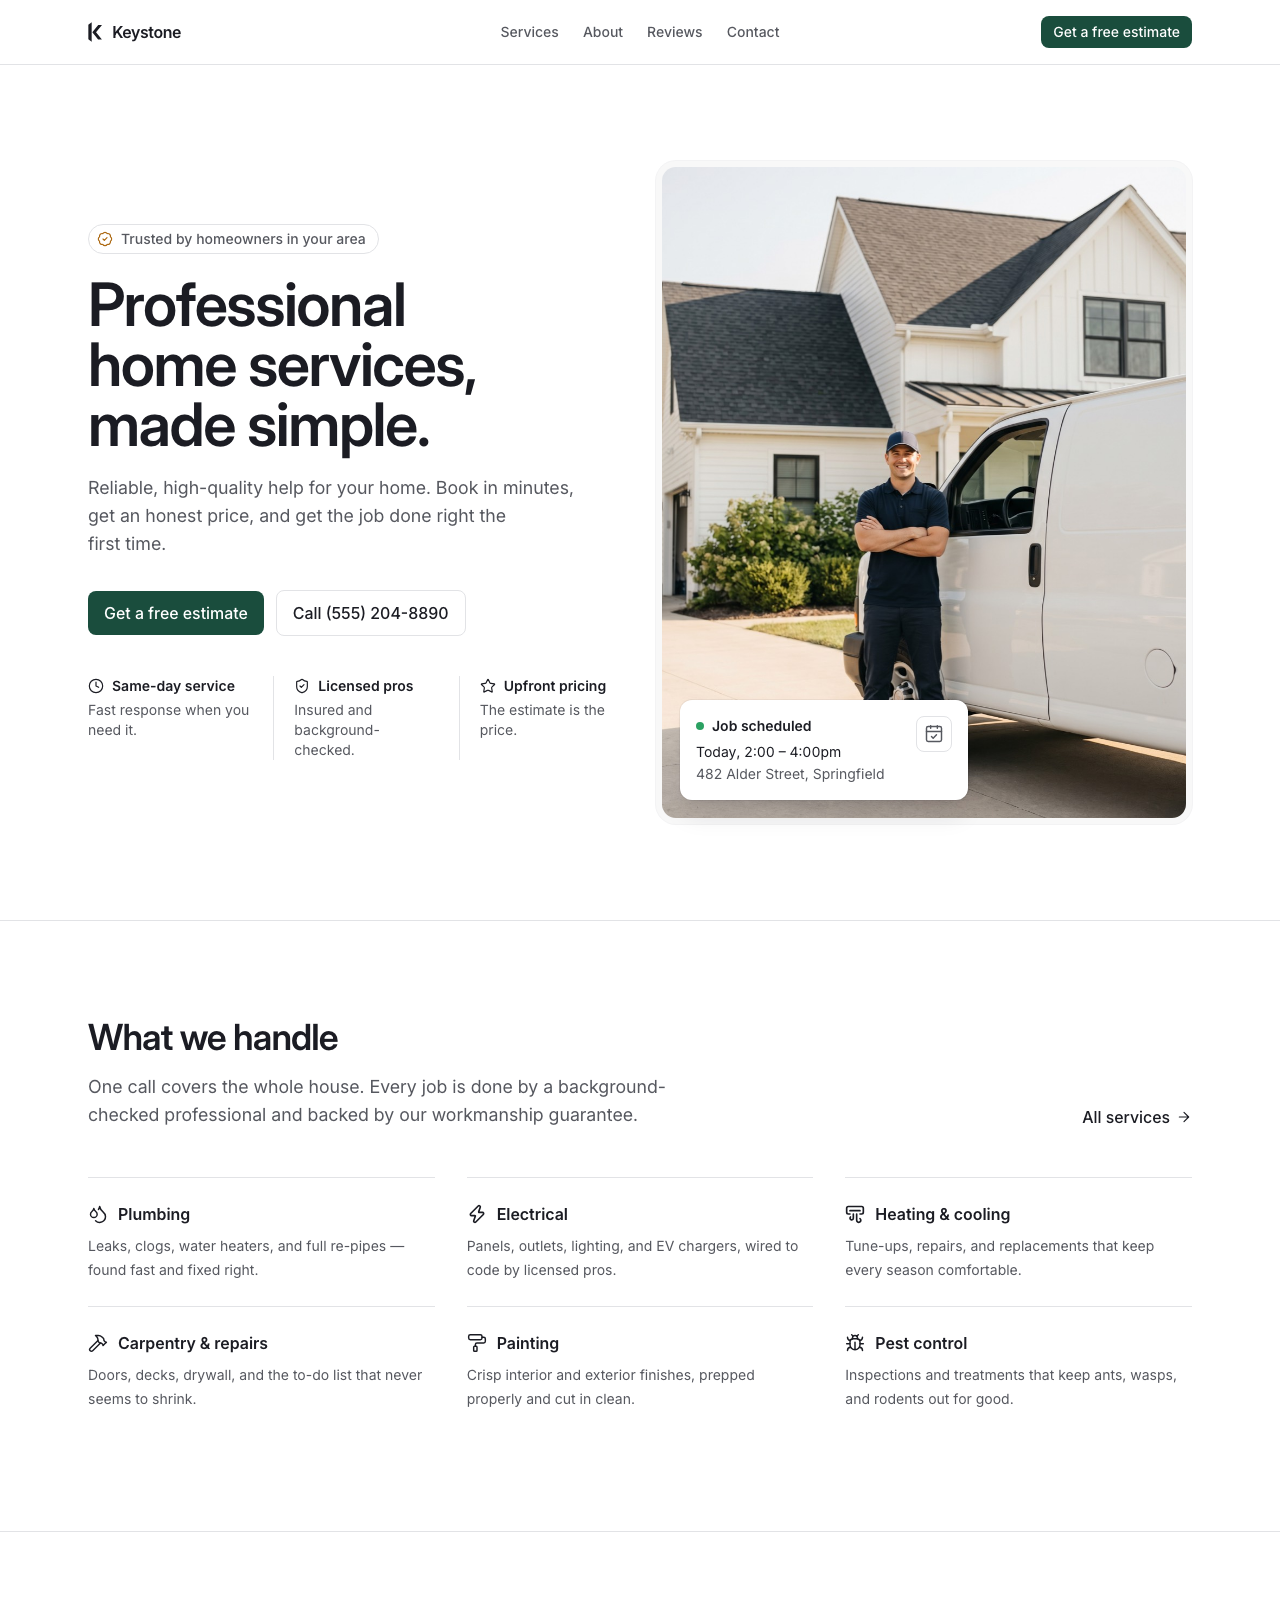
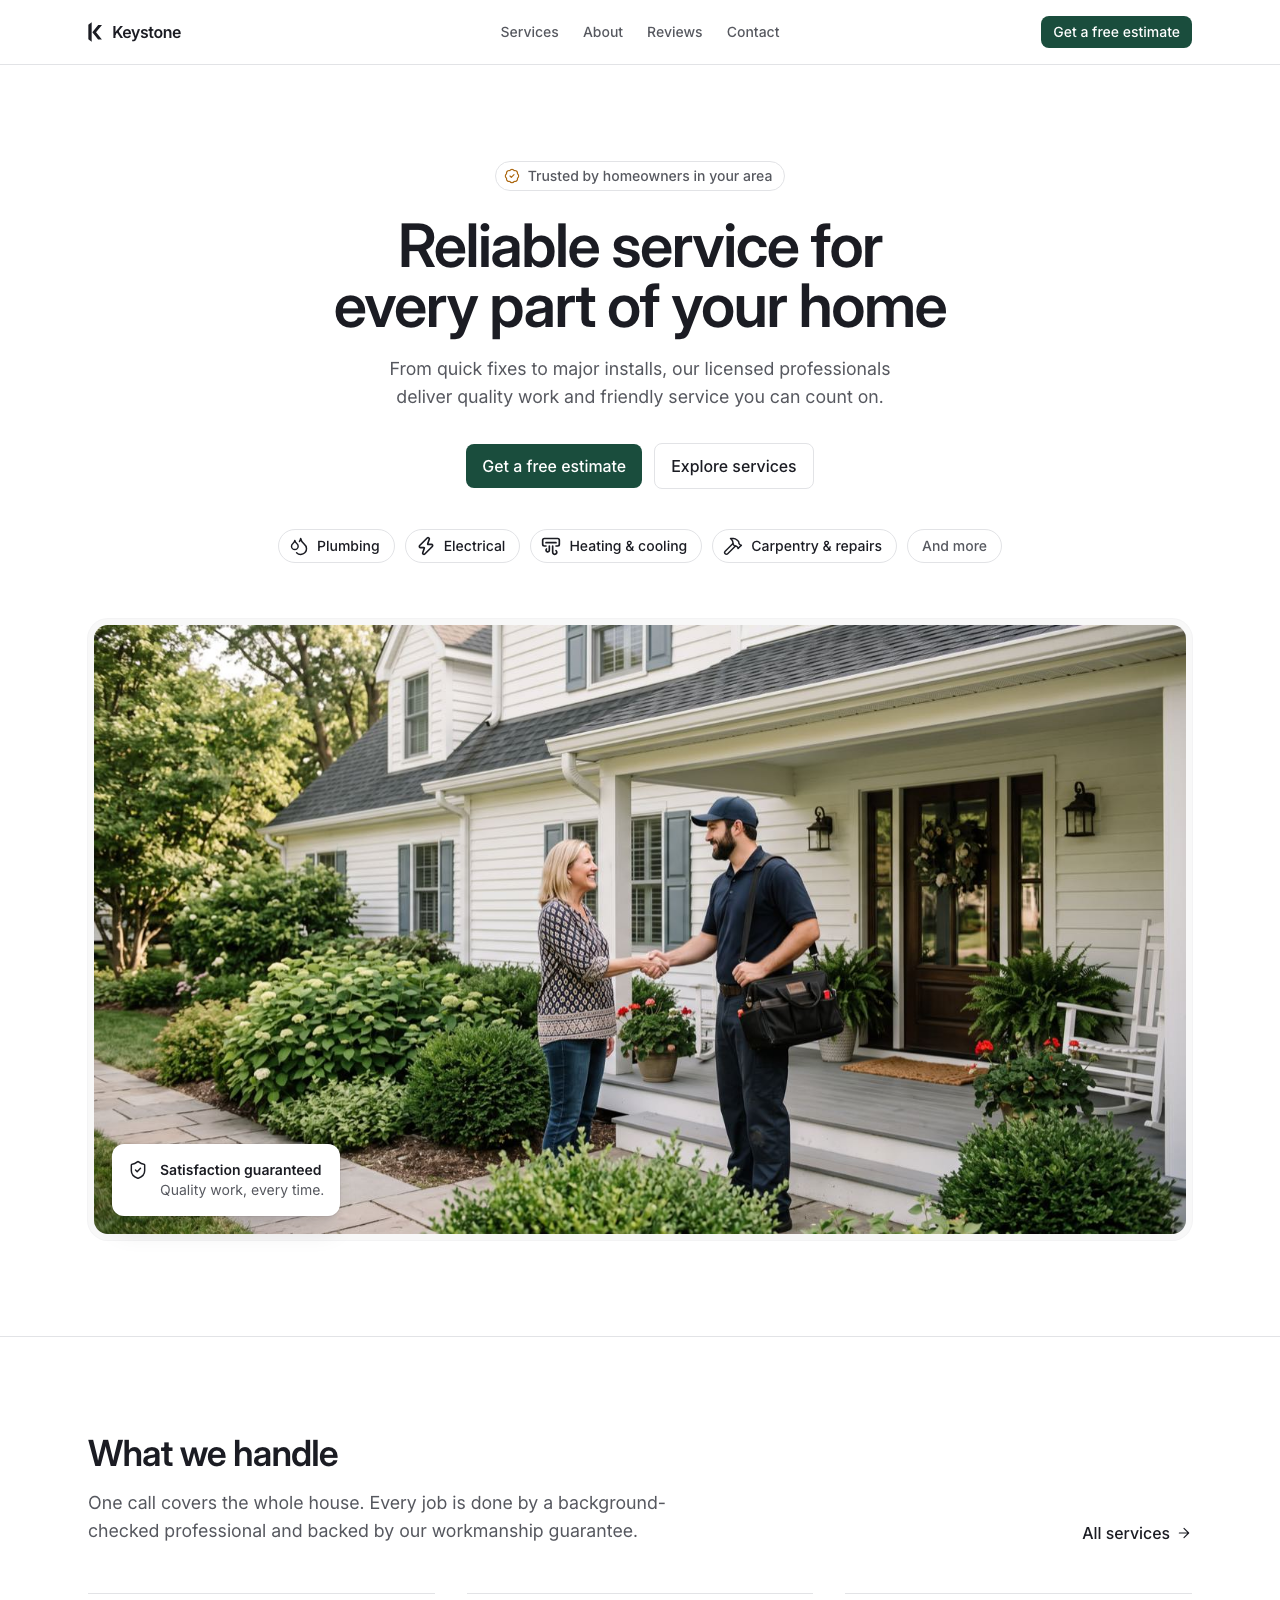
Adding more updates

diff --git a/files/resources/css/site.css b/files/resources/css/site.css
@@ -35,10 +35,48 @@ html.reveal-ready [data-reveal].is-visible {
     transform: translateY(0);
 }
 
+/* First-viewport choreography for the full-frame hero: the photo settles
+   from a slight zoom while the copy, card, and caption rise in sequence
+   (--i is each element's slot). Time-based, so no script is involved. */
+@keyframes hero-in {
+    from {
+        opacity: 0;
+        transform: translateY(18px);
+    }
+    to {
+        opacity: 1;
+        transform: translateY(0);
+    }
+}
+
+@keyframes hero-frame-settle {
+    from {
+        transform: scale(1.045);
+    }
+    to {
+        transform: scale(1);
+    }
+}
+
+[data-hero-in] {
+    animation: hero-in 900ms cubic-bezier(0.22, 1, 0.36, 1) both;
+    animation-delay: calc(140ms + var(--i, 0) * 90ms);
+}
+
+[data-hero-frame] {
+    transform-origin: 62% 50%;
+    animation: hero-frame-settle 2200ms cubic-bezier(0.22, 1, 0.36, 1) both;
+}
+
 @media (prefers-reduced-motion: reduce) {
     html.reveal-ready [data-reveal] {
         opacity: 1;
         transform: none;
         transition: none;
+    }
+
+    [data-hero-in],
+    [data-hero-frame] {
+        animation: none;
     }
 }

diff --git a/files/resources/views/components/sections/hero-frame.blade.php b/files/resources/views/components/sections/hero-frame.blade.php
@@ -1,30 +1,54 @@
 @props(['heading' => 'The house is handled.'])
-<section class="px-6 pt-6 pb-16 lg:pb-24">
+{{-- Full-frame look: the photo is the page. Copy sits on a scrim bottom-left,
+     the dispatch card holds the opposite corner on the same baseline, and a
+     caption plate under the print carries the proof points. --}}
+<section class="px-4 pt-4 pb-16 sm:px-6 sm:pt-6 lg:pb-24">
     <div class="mx-auto max-w-6xl">
-        <div class="relative rounded-[1.5rem] bg-ink/3 p-1.5 ring-1 ring-ink/5">
-            <img src="/images/hero-overlook.jpg" alt="A well-kept suburban home at golden hour" width="1728" height="964" fetchpriority="high" class="h-105 w-full rounded-[calc(1.5rem-6px)] object-cover lg:h-140">
-            <div class="pointer-events-none absolute inset-1.5 rounded-[calc(1.5rem-6px)] bg-linear-to-r from-ink/30 to-ink/0 max-lg:hidden" aria-hidden="true"></div>
-            <div class="relative -mt-16 mr-1.5 mb-1.5 ml-1.5 max-w-xl rounded-2xl bg-canvas p-6 shadow-xl shadow-ink/10 ring-1 ring-ink/5 sm:p-8 lg:absolute lg:bottom-8 lg:left-8 lg:m-0">
-                <p class="inline-flex items-center gap-2 rounded-full border border-line py-1 pr-3 pl-2 text-sm font-medium text-muted">
-                    <svg xmlns="http://www.w3.org/2000/svg" viewBox="0 0 24 24" fill="none" stroke="currentColor" stroke-width="1.75" stroke-linecap="round" stroke-linejoin="round" class="size-4 shrink-0 text-secondary" aria-hidden="true"><path d="M3.85 8.62a4 4 0 0 1 4.78-4.77a4 4 0 0 1 6.74 0a4 4 0 0 1 4.78 4.78a4 4 0 0 1 0 6.74a4 4 0 0 1-4.77 4.78a4 4 0 0 1-6.75 0a4 4 0 0 1-4.78-4.77a4 4 0 0 1 0-6.76"/><path d="m9 12l2 2l4-4"/></svg>
-                    Trusted by homeowners in your area
-                </p>
-                <h1 class="mt-4 max-w-[16ch] font-display text-3xl font-semibold tracking-tight text-balance text-ink sm:text-4xl lg:text-5xl">{{ $heading }}</h1>
-                <p class="mt-4 max-w-[42ch] text-lg text-pretty text-muted">One licensed local crew for every repair, install, and tune-up — booked in minutes, priced before we start.</p>
-                <div class="mt-6 flex flex-wrap items-center gap-3">
-                    <a href="/contact" class="rounded-lg bg-accent px-4 py-2.5 font-medium text-accent-ink transition-transform duration-200 ease-[cubic-bezier(0.22,1,0.36,1)] active:scale-[0.98] hover:bg-accent/85 focus-visible:outline-2 focus-visible:outline-offset-2 focus-visible:outline-accent">{{ $site->cta_label }}</a>
-                    <a href="{{ $site->phone_href }}" class="rounded-lg border border-line px-4 py-2.5 font-medium text-ink hover:border-ink/30 focus-visible:outline-2 focus-visible:outline-offset-2 focus-visible:outline-accent">Call {{ $site->phone }}</a>
+        <div class="rounded-[1.75rem] bg-ink/4 p-1.5 ring-1 ring-ink/6">
+            <div class="relative isolate overflow-hidden rounded-[calc(1.75rem-6px)] bg-ink">
+                <img src="/images/hero-overlook.jpg" alt="A modern farmhouse at dusk, porch light on" width="1728" height="964" fetchpriority="high" data-hero-frame class="h-[34rem] w-full object-cover object-[62%_50%] sm:h-[38rem] lg:h-[46rem]">
+                <div class="pointer-events-none absolute inset-0 bg-linear-to-t from-ink/85 via-ink/35 via-45% to-ink/0" aria-hidden="true"></div>
+                <div class="pointer-events-none absolute inset-0 bg-linear-to-r from-ink/45 to-ink/0 to-60% max-lg:hidden" aria-hidden="true"></div>
+
+                <div class="absolute inset-x-0 bottom-0 flex flex-col gap-8 p-5 sm:p-8 lg:flex-row lg:items-end lg:justify-between lg:p-10">
+                    <div class="max-w-2xl">
+                        <p data-hero-in style="--i: 0" class="inline-flex items-center gap-2 rounded-full bg-canvas/12 py-1 pr-3 pl-2 text-sm font-medium text-canvas ring-1 ring-canvas/25 backdrop-blur-md max-sm:text-xs">
+                            <svg xmlns="http://www.w3.org/2000/svg" viewBox="0 0 24 24" fill="none" stroke="currentColor" stroke-width="1.75" stroke-linecap="round" stroke-linejoin="round" class="size-4 shrink-0 text-secondary" aria-hidden="true"><path d="M3.85 8.62a4 4 0 0 1 4.78-4.77a4 4 0 0 1 6.74 0a4 4 0 0 1 4.78 4.78a4 4 0 0 1 0 6.74a4 4 0 0 1-4.77 4.78a4 4 0 0 1-6.75 0a4 4 0 0 1-4.78-4.77a4 4 0 0 1 0-6.76"/><path d="m9 12l2 2l4-4"/></svg>
+                            Trusted by homeowners in your area
+                        </p>
+                        <h1 data-hero-in style="--i: 1" class="mt-5 max-w-[13ch] font-display text-4xl font-semibold tracking-tight text-balance text-canvas sm:text-5xl lg:text-6xl xl:text-7xl">{{ $heading }}</h1>
+                        <p data-hero-in style="--i: 2" class="mt-5 max-w-[40ch] text-lg text-pretty text-canvas/80 lg:text-xl">One licensed local crew for every repair, install, and tune-up — booked in minutes, priced before we start.</p>
+                        <div data-hero-in style="--i: 3" class="mt-8 flex flex-wrap items-center gap-3 max-sm:flex-col max-sm:items-stretch">
+                            <a href="/contact" class="rounded-lg bg-canvas px-4 py-2.5 text-center font-medium text-ink transition-transform duration-200 ease-[cubic-bezier(0.22,1,0.36,1)] active:scale-[0.98] hover:bg-canvas/90 focus-visible:outline-2 focus-visible:outline-offset-2 focus-visible:outline-canvas">{{ $site->cta_label }}</a>
+                            <a href="{{ $site->phone_href }}" class="rounded-lg bg-canvas/12 px-4 py-2.5 text-center font-medium text-canvas ring-1 ring-canvas/30 backdrop-blur-md hover:bg-canvas/20 focus-visible:outline-2 focus-visible:outline-offset-2 focus-visible:outline-canvas">Call {{ $site->phone }}</a>
+                        </div>
+                    </div>
+                    <div data-hero-in style="--i: 4" class="shrink-0 max-lg:hidden">
+                        <x-sections.dispatch-card/>
+                    </div>
                 </div>
-                <p class="mt-6 flex flex-wrap items-center gap-x-2 gap-y-1 border-t border-line pt-4 text-sm text-muted">
-                    <span>Same-day service</span>
-                    <span aria-hidden="true">·</span>
-                    <span>Licensed &amp; insured</span>
-                    <span aria-hidden="true">·</span>
-                    <span>Upfront pricing</span>
-                </p>
             </div>
-            <div class="absolute top-8 right-8 max-lg:hidden">
-                <x-sections.dispatch-card/>
+
+            {{-- Caption plate: the print's label, set in the mat. --}}
+            <div data-hero-in style="--i: 5" class="flex flex-wrap items-center justify-between gap-x-8 gap-y-3 px-3 pt-3.5 pb-2 max-sm:flex-col max-sm:items-start sm:px-5">
+                <p class="flex items-center gap-2.5 text-sm whitespace-nowrap text-muted">
+                    <x-sections.stars/>
+                    <span><span class="font-semibold text-ink">Five stars</span> from 300+ homeowners</span>
+                </p>
+                <ul class="flex flex-wrap items-center gap-x-5 gap-y-2 text-sm text-muted" aria-label="Why homeowners choose us">
+                    <li class="flex items-center gap-2">
+                        <svg xmlns="http://www.w3.org/2000/svg" viewBox="0 0 24 24" fill="none" stroke="currentColor" stroke-width="1.75" stroke-linecap="round" stroke-linejoin="round" class="size-4 shrink-0 text-ink" aria-hidden="true"><circle cx="12" cy="12" r="10"/><path d="M12 6v6l4 2"/></svg>
+                        Same-day service
+                    </li>
+                    <li class="flex items-center gap-2 sm:border-l sm:border-line sm:pl-5">
+                        <svg xmlns="http://www.w3.org/2000/svg" viewBox="0 0 24 24" fill="none" stroke="currentColor" stroke-width="1.75" stroke-linecap="round" stroke-linejoin="round" class="size-4 shrink-0 text-ink" aria-hidden="true"><path d="M20 13c0 5-3.5 7.5-7.66 8.95a1 1 0 0 1-.67-.01C7.5 20.5 4 18 4 13V6a1 1 0 0 1 1-1c2 0 4.5-1.2 6.24-2.72a1.17 1.17 0 0 1 1.52 0C14.51 3.81 17 5 19 5a1 1 0 0 1 1 1z"/><path d="m9 12l2 2l4-4"/></svg>
+                        Licensed &amp; insured
+                    </li>
+                    <li class="flex items-center gap-2 sm:border-l sm:border-line sm:pl-5">
+                        <svg xmlns="http://www.w3.org/2000/svg" viewBox="0 0 24 24" fill="none" stroke="currentColor" stroke-width="1.75" stroke-linecap="round" stroke-linejoin="round" class="size-4 shrink-0 text-ink" aria-hidden="true"><path d="M4 2v20l2-1 2 1 2-1 2 1 2-1 2 1 2-1 2 1V2l-2 1-2-1-2 1-2-1-2 1-2-1-2 1Z"/><path d="M16 8h-6a2 2 0 1 0 0 4h4a2 2 0 1 1 0 4H8"/><path d="M12 17.5v-11"/></svg>
+                        Upfront pricing
+                    </li>
+                </ul>
             </div>
         </div>
     </div>

diff --git a/files/resources/views/components/sections/nav.blade.php b/files/resources/views/components/sections/nav.blade.php
@@ -1,5 +1,5 @@
 <header class="sticky top-0 z-40 border-b border-line bg-canvas/85 backdrop-blur-md">
-    <nav aria-label="Main" class="mx-auto grid h-16 max-w-6xl grid-cols-[1fr_auto_1fr] items-center gap-8 px-6">
+    <nav aria-label="Main" class="mx-auto grid h-16 max-w-6xl grid-cols-[1fr_auto_1fr] items-center gap-8 px-6 max-md:grid-cols-[1fr_auto]">
         <a href="/" aria-label="Homepage" class="flex items-center gap-2.5 justify-self-start font-display font-semibold tracking-tight text-ink hover:text-ink/70">
             <svg xmlns="http://www.w3.org/2000/svg" viewBox="0 0 110.8 156" fill="currentColor" class="h-5 w-auto shrink-0" aria-hidden="true"><path d="m79 136-45.3-56.4 46.1-56.1h29.9l-47 56.1 45.8 56.4h-29.8"/><path d="M2.7 20.9 28.6 2v152L2.7 135Z"/></svg>
             <span>{{ $site->short_name }}</span>
@@ -12,7 +12,10 @@
         </div>
         <div class="flex items-center gap-3 justify-self-end">
             <a href="/contact" class="rounded-lg bg-accent px-3 py-1.5 text-sm font-medium text-accent-ink transition-transform duration-200 ease-[cubic-bezier(0.22,1,0.36,1)] hover:bg-accent/85 focus-visible:outline-2 focus-visible:outline-offset-2 focus-visible:outline-accent active:scale-[0.98] max-md:hidden">{{ $site->cta_label }}</a>
-            <button type="button" data-nav-toggle aria-expanded="false" aria-controls="mobile-nav" class="rounded-lg border border-line px-3 py-2 text-sm font-medium text-ink hover:border-ink/30 focus-visible:outline-2 focus-visible:outline-offset-2 focus-visible:outline-accent md:hidden">Menu</button>
+            <button type="button" data-nav-toggle aria-expanded="false" aria-controls="mobile-nav" aria-label="Menu" class="group grid size-10 place-items-center rounded-lg border border-line text-ink hover:border-ink/30 focus-visible:outline-2 focus-visible:outline-offset-2 focus-visible:outline-accent md:hidden">
+                <svg xmlns="http://www.w3.org/2000/svg" viewBox="0 0 24 24" fill="none" stroke="currentColor" stroke-width="1.75" stroke-linecap="round" class="size-5 group-aria-expanded:hidden" aria-hidden="true"><path d="M4 7h16M4 12h16M4 17h16"/></svg>
+                <svg xmlns="http://www.w3.org/2000/svg" viewBox="0 0 24 24" fill="none" stroke="currentColor" stroke-width="1.75" stroke-linecap="round" class="hidden size-5 group-aria-expanded:block" aria-hidden="true"><path d="m6 6 12 12M18 6 6 18"/></svg>
+            </button>
         </div>
     </nav>
     <div id="mobile-nav" hidden class="border-t border-line px-6 py-4 md:hidden">

diff --git a/files/resources/views/components/sections/hero-centered.blade.php b/files/resources/views/components/sections/hero-centered.blade.php
@@ -8,9 +8,9 @@
             </p>
             <h1 class="mx-auto mt-6 max-w-[18ch] font-display text-4xl font-semibold tracking-tight text-balance text-ink sm:text-5xl lg:text-6xl">{{ $heading }}</h1>
             <p class="mx-auto mt-5 max-w-[46ch] text-lg text-pretty text-muted">From quick fixes to major installs, our licensed professionals deliver quality work and friendly service you can count on.</p>
-            <div class="mt-8 flex flex-wrap items-center justify-center gap-3">
-                <a href="/contact" class="rounded-lg bg-accent px-4 py-2.5 font-medium text-accent-ink transition-transform duration-200 ease-[cubic-bezier(0.22,1,0.36,1)] active:scale-[0.98] hover:bg-accent/85 focus-visible:outline-2 focus-visible:outline-offset-2 focus-visible:outline-accent">{{ $site->cta_label }}</a>
-                <a href="/services" class="rounded-lg border border-line px-4 py-2.5 font-medium text-ink hover:border-ink/30 focus-visible:outline-2 focus-visible:outline-offset-2 focus-visible:outline-accent">Explore services</a>
+            <div class="mt-8 flex flex-wrap items-center justify-center gap-3 max-sm:flex-col max-sm:items-stretch">
+                <a href="/contact" class="rounded-lg bg-accent px-4 py-2.5 text-center font-medium text-accent-ink transition-transform duration-200 ease-[cubic-bezier(0.22,1,0.36,1)] active:scale-[0.98] hover:bg-accent/85 focus-visible:outline-2 focus-visible:outline-offset-2 focus-visible:outline-accent">{{ $site->cta_label }}</a>
+                <a href="/services" class="rounded-lg border border-line px-4 py-2.5 text-center font-medium text-ink hover:border-ink/30 focus-visible:outline-2 focus-visible:outline-offset-2 focus-visible:outline-accent">Explore services</a>
             </div>
             <ul role="list" class="mt-10 flex flex-wrap items-center justify-center gap-2.5">
                 @foreach ($services as $service)

diff --git a/files/resources/views/components/sections/hero-editorial.blade.php b/files/resources/views/components/sections/hero-editorial.blade.php
@@ -9,9 +9,9 @@
                 </p>
                 <h1 class="mt-5 max-w-[16ch] font-display text-4xl font-semibold tracking-tight text-balance text-ink sm:text-5xl">{{ $heading }}</h1>
                 <p class="mt-5 max-w-[46ch] text-lg text-pretty text-muted">Professional home services, done right. From quick fixes to full installations, our experienced team is here when you need us most.</p>
-                <div class="mt-8 flex flex-wrap items-center gap-3">
-                    <a href="/contact" class="rounded-lg bg-accent px-4 py-2.5 font-medium text-accent-ink transition-transform duration-200 ease-[cubic-bezier(0.22,1,0.36,1)] active:scale-[0.98] hover:bg-accent/85 focus-visible:outline-2 focus-visible:outline-offset-2 focus-visible:outline-accent">{{ $site->cta_label }}</a>
-                    <a href="/services" class="rounded-lg border border-ink/15 px-4 py-2.5 font-medium text-ink hover:border-ink/30 focus-visible:outline-2 focus-visible:outline-offset-2 focus-visible:outline-accent">View services</a>
+                <div class="mt-8 flex flex-wrap items-center gap-3 max-sm:flex-col max-sm:items-stretch">
+                    <a href="/contact" class="rounded-lg bg-accent px-4 py-2.5 text-center font-medium text-accent-ink transition-transform duration-200 ease-[cubic-bezier(0.22,1,0.36,1)] active:scale-[0.98] hover:bg-accent/85 focus-visible:outline-2 focus-visible:outline-offset-2 focus-visible:outline-accent">{{ $site->cta_label }}</a>
+                    <a href="/services" class="rounded-lg border border-ink/15 px-4 py-2.5 text-center font-medium text-ink hover:border-ink/30 focus-visible:outline-2 focus-visible:outline-offset-2 focus-visible:outline-accent">View services</a>
                 </div>
                 <dl class="mt-10 grid grid-cols-1 gap-y-4 sm:grid-cols-3 sm:gap-x-5">
                     <div>

diff --git a/files/resources/views/components/sections/hero-split.blade.php b/files/resources/views/components/sections/hero-split.blade.php
@@ -8,9 +8,9 @@
             </p>
             <h1 class="mt-5 max-w-[16ch] font-display text-4xl font-semibold tracking-tight text-balance text-ink sm:text-5xl lg:text-6xl">{{ $heading }}</h1>
             <p class="mt-5 max-w-[44ch] text-lg text-pretty text-muted">Reliable, high-quality help for your home. Book in minutes, get an honest price, and get the job done right the first time.</p>
-            <div class="mt-8 flex flex-wrap items-center gap-3">
-                <a href="/contact" class="rounded-lg bg-accent px-4 py-2.5 font-medium text-accent-ink transition-transform duration-200 ease-[cubic-bezier(0.22,1,0.36,1)] active:scale-[0.98] hover:bg-accent/85 focus-visible:outline-2 focus-visible:outline-offset-2 focus-visible:outline-accent">{{ $site->cta_label }}</a>
-                <a href="{{ $site->phone_href }}" class="rounded-lg border border-line px-4 py-2.5 font-medium text-ink hover:border-ink/30 focus-visible:outline-2 focus-visible:outline-offset-2 focus-visible:outline-accent">Call {{ $site->phone }}</a>
+            <div class="mt-8 flex flex-wrap items-center gap-3 max-sm:flex-col max-sm:items-stretch">
+                <a href="/contact" class="rounded-lg bg-accent px-4 py-2.5 text-center font-medium text-accent-ink transition-transform duration-200 ease-[cubic-bezier(0.22,1,0.36,1)] active:scale-[0.98] hover:bg-accent/85 focus-visible:outline-2 focus-visible:outline-offset-2 focus-visible:outline-accent">{{ $site->cta_label }}</a>
+                <a href="{{ $site->phone_href }}" class="rounded-lg border border-line px-4 py-2.5 text-center font-medium text-ink hover:border-ink/30 focus-visible:outline-2 focus-visible:outline-offset-2 focus-visible:outline-accent">Call {{ $site->phone }}</a>
             </div>
             <dl class="mt-10 grid grid-cols-1 gap-y-4 sm:grid-cols-3 sm:gap-x-5">
                 <div>

diff --git a/variants/split.blade.php b/variants/split.blade.php
@@ -1,7 +1,7 @@
 <x-layouts.main title="Keystone Home Services" description="Licensed, insured local pros for plumbing, electrical, heating and cooling, and home repairs. Book in minutes with upfront pricing and same-day service.">
-    <x-sections.hero-centered/>
+    <x-sections.hero-split/>
     <x-sections.services/>
-    <x-sections.review-spotlight/>
     <x-sections.steps/>
+    <x-sections.review-spotlight/>
     <x-sections.cta/>
 </x-layouts.main>

diff --git a/files/resources/views/pages/index.blade.php b/files/resources/views/pages/index.blade.php
@@ -1,7 +1,7 @@
 <x-layouts.main title="Keystone Home Services" description="Licensed, insured local pros for plumbing, electrical, heating and cooling, and home repairs. Book in minutes with upfront pricing and same-day service.">
-    <x-sections.hero-split/>
+    <x-sections.hero-centered/>
     <x-sections.services/>
-    <x-sections.steps/>
     <x-sections.review-spotlight/>
+    <x-sections.steps/>
     <x-sections.cta/>
 </x-layouts.main>
